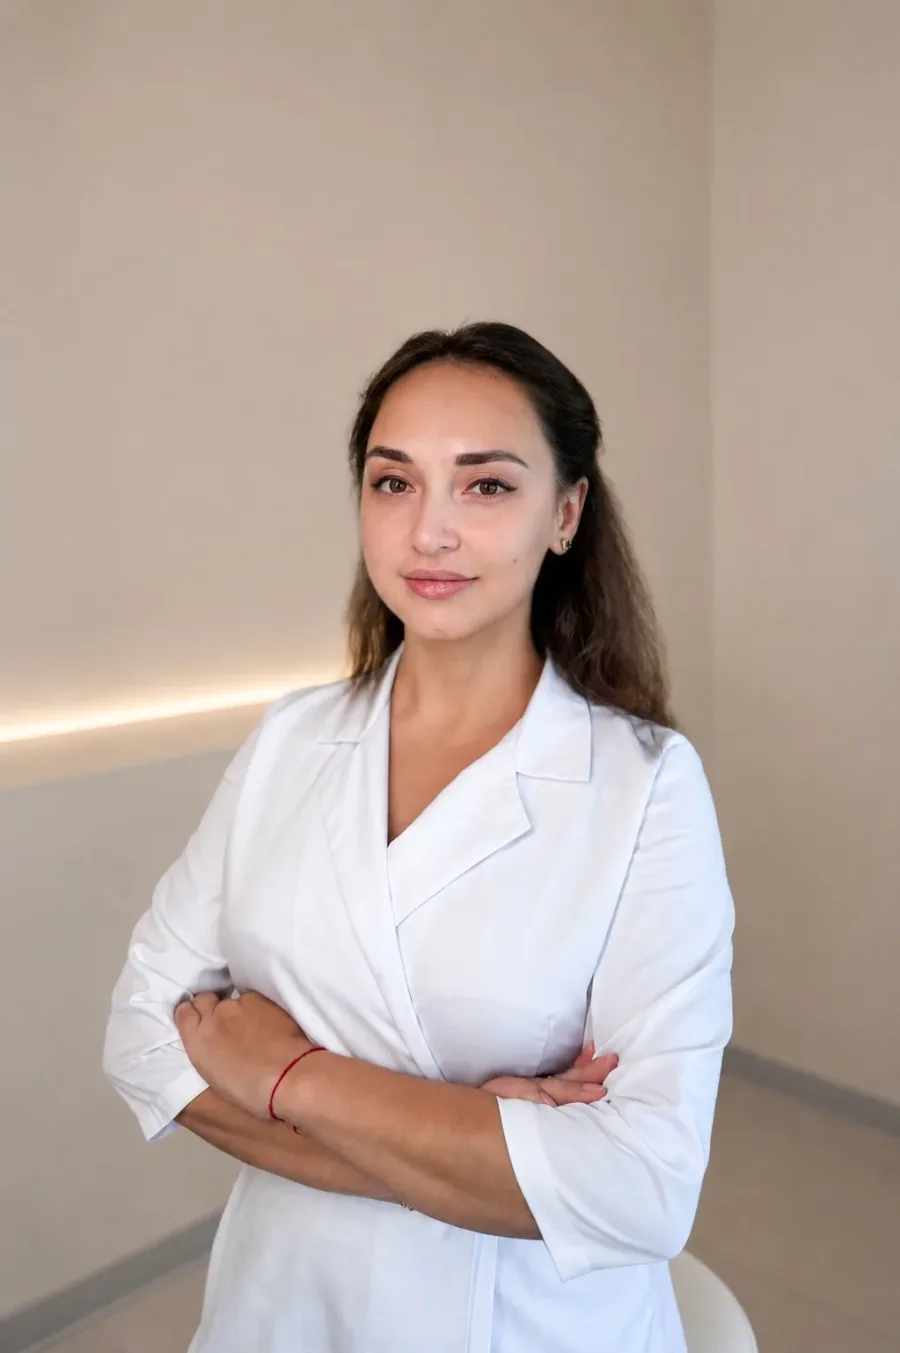
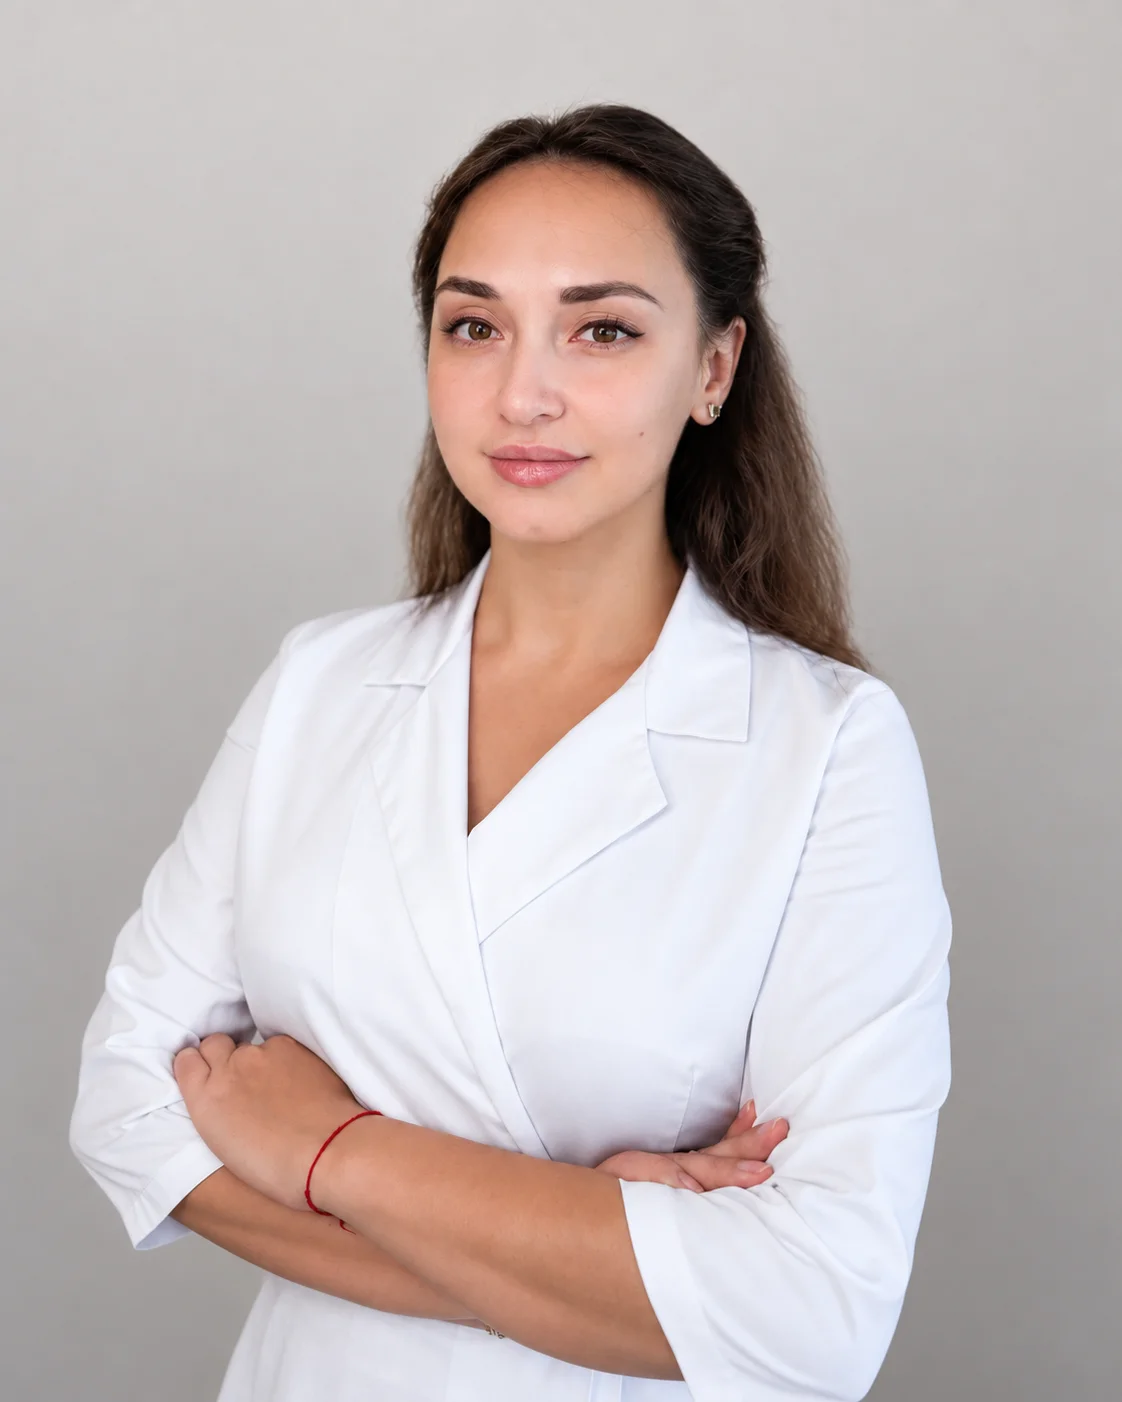
Load one copy of each homepage clip, and swap Ekaterina's photo
The homepage hero and the bento cell each exist twice in the markup, a
desktop copy and a mobile one pointing at the same file. display:none
does not stop a media fetch, so hero-clip.mp4 came down twice — 15 MB
for a 7 MB video. Both pairs now carry data-src and load through
video-loading.js, which only touches the copy that is actually
rendered. Playback is unchanged: a new data-autoplay="always" opts
these four out of the mobile poster-and-tap rule, so the homepage looks
and behaves exactly as before, minus the wasted download.

Ekaterina Evgenevna's portrait replaced with the new studio shot
(1122x1402, 46 KB). Its ten references gained ?v=2 so caches let go of
the old file.

Also: the cookie banner's "Подробнее" pointed at the personal data
policy. Now that the site carries a cookie policy of its own, it points
there.

Homepage on a phone: 15.2 MB to 8.5 MB. Each clip is requested once, on
both viewports.

diff --git a/index.html b/index.html
@@ -188,9 +188,7 @@
       <p class="mh-hero__sub">Выбор тех, кто привык к безупречному сервису и медицинской точности.</p>
     </div>
     <div class="mh-hero__photo">
-      <video autoplay muted loop playsinline preload="auto" poster="assets/photos/hero-image174.webp">
-        <source src="assets/video/hero-clip.mp4" type="video/mp4"/>
-      </video>
+      <video muted loop playsinline poster="assets/photos/hero-image174.webp" data-src="assets/video/hero-clip.mp4" preload="none" data-autoplay="always"></video>
       <div class="mh-hero__promo">
         <div class="mh-hero__promo-head">
           <p class="mh-hero__promo-label">Скидка новым гостям!</p>
@@ -344,7 +342,7 @@
         <div class="mh-why-card__head"><p class="mh-why-card__title">Лучшее оборудование с РУ</p><p class="mh-why-card__num">03</p></div>
         <p class="mh-why-card__text">Клиника оснащена только сертифицированными аппаратами с регистрационными удостоверениями. Мы работаем на оборудовании ведущих мировых производителей.</p>
       </div>
-      <div class="mh-why-photo"><video class="mh-why-photo__video" autoplay muted loop playsinline preload="auto" poster="assets/video/bento-cell-poster.webp" aria-hidden="true"><source src="assets/video/bento-cell-clip.mp4" type="video/mp4"/></video></div>
+      <div class="mh-why-photo"><video class="mh-why-photo__video" muted loop playsinline poster="assets/video/bento-cell-poster.webp" aria-hidden="true" data-src="assets/video/bento-cell-clip.mp4" preload="none" data-autoplay="always"></video></div>
       <div class="mh-why-card">
         <div class="mh-why-card__head"><p class="mh-why-card__title">Сертифицированные препараты</p><p class="mh-why-card__num">04</p></div>
         <p class="mh-why-card__text">Все используемые препараты имеют официальную регистрацию и сертификаты качества. Мы гарантируем подлинность каждого средства.</p>
@@ -398,7 +396,7 @@
           <p class="mh-spec-card__role">Косметолог-эстетист, нутрициолог</p>
         </a>
         <a href="specialists/ekaterina-evgenevna.html" class="mh-spec-card">
-          <img src="assets/photos/spec-ekaterina.webp" alt="Колесникова Екатерина Евгеньевна" loading="lazy"/>
+          <img src="assets/photos/spec-ekaterina.webp?v=2" alt="Колесникова Екатерина Евгеньевна" loading="lazy"/>
           <p class="mh-spec-card__name">Колесникова Екатерина Евгеньевна</p>
           <p class="mh-spec-card__role">Косметолог-эстетист</p>
         </a>
@@ -591,9 +589,7 @@
       </div>
     </div>
     <div class="hero__photo">
-      <video class="hero__video" autoplay muted loop playsinline preload="auto" poster="assets/photos/hero-image174.webp">
-        <source src="assets/video/hero-clip.mp4" type="video/mp4"/>
-      </video>
+      <video class="hero__video" muted loop playsinline poster="assets/photos/hero-image174.webp" data-src="assets/video/hero-clip.mp4" preload="none" data-autoplay="always"></video>
       <a href="#booking" class="hero__promo">
         <div class="hero__promo-top">
           <p class="hero__promo-label">Скидка новым гостям!</p>
@@ -893,9 +889,7 @@
       </div>
       <div class="adv-row adv-row--2">
         <div class="adv-cell adv-cell--empty adv-cell--video">
-          <video class="adv-cell__video" autoplay muted loop playsinline preload="auto" poster="assets/video/bento-cell-poster.webp" aria-hidden="true">
-            <source src="assets/video/bento-cell-clip.mp4" type="video/mp4"/>
-          </video>
+          <video class="adv-cell__video" muted loop playsinline poster="assets/video/bento-cell-poster.webp" aria-hidden="true" data-src="assets/video/bento-cell-clip.mp4" preload="none" data-autoplay="always"></video>
         </div>
         <div class="adv-cell adv-cell--text adv-cell--02">
           <div class="adv-cell__head">
@@ -990,7 +984,7 @@
       <span class="spec-card__view" aria-label="Профиль"><svg viewBox="0 0 24 24" fill="none"><path d="M7 17L17 7M17 7H9M17 7V15" stroke="currentColor" stroke-width="1.8" stroke-linecap="round" stroke-linejoin="round"/></svg></span>
     </a>
     <a href="specialists/ekaterina-evgenevna.html" class="spec-card">
-      <div class="spec-card__photo"><img src="assets/photos/spec-ekaterina.webp" alt="Колесникова Екатерина Евгеньевна" loading="lazy"/></div>
+      <div class="spec-card__photo"><img src="assets/photos/spec-ekaterina.webp?v=2" alt="Колесникова Екатерина Евгеньевна" loading="lazy"/></div>
       <p class="spec-card__name">Колесникова Екатерина Евгеньевна</p>
       <p class="spec-card__role">Косметолог-эстетист</p>
       <span class="spec-card__view" aria-label="Профиль"><svg viewBox="0 0 24 24" fill="none"><path d="M7 17L17 7M17 7H9M17 7V15" stroke="currentColor" stroke-width="1.8" stroke-linecap="round" stroke-linejoin="round"/></svg></span>
@@ -1662,7 +1656,8 @@
   if (connectTrigger && connectPanel) hoverIntent(connectTrigger, connectPanel, 300);
 })();
 </script>
-<script src="docs-popup.js?v=202609021900" defer></script><script src="animations.js?v=202609120400" defer></script>
+<script src="docs-popup.js?v=202609021900" defer></script><script src="js/video-loading.js?v=202609231800" defer></script>
+<script src="animations.js?v=202609120400" defer></script>
 <script src="mobile-nav.js?v=202608311610" defer></script>
 
 <!-- ═══ GIFT CERT POPUP ════════════════════════════════════════════ -->
@@ -1698,7 +1693,7 @@
 <div class="cookie-banner" id="cookie-banner" role="dialog" aria-label="Использование cookies" style="display:none">
   <div class="cookie-banner__text">
     <p class="cookie-banner__title">Мы используем cookie</p>
-    <p class="cookie-banner__desc">Для корректной работы сайта и анализа трафика. <a href="docs/processing.pdf" target="_blank" rel="noopener">Подробнее</a></p>
+    <p class="cookie-banner__desc">Для корректной работы сайта и анализа трафика. <a href="docs/cookies.pdf" target="_blank" rel="noopener">Подробнее</a></p>
   </div>
   <div class="cookie-banner__actions">
     <button class="pill-btn cookie-accept" id="cookie-accept">Принять</button>

diff --git a/js/video-loading.js b/js/video-loading.js
@@ -24,7 +24,11 @@
   // На мобильных ролик не запускается сам никогда: даже на быстром 4G это
   // 3–12 МБ ради фона, который человек не просил. Постер виден сразу,
   // видео подгружается по тапу. На десктопе поведение прежнее.
-  function mayAutoplay() {
+  //
+  // data-autoplay="always" — исключение для роликов главной: там нужно было
+  // только убрать скрытый дубль, а само поведение оставить как есть.
+  function mayAutoplay(video) {
+    if (video && video.dataset && video.dataset.autoplay === 'always') return true;
     if (isMobile()) return false;
     if (saveData || slow) return false;
     return !window.matchMedia('(prefers-reduced-motion: reduce)').matches;
@@ -56,14 +60,14 @@
         entries.forEach(function (e) {
           if (!e.isIntersecting) return;
           io.unobserve(e.target);
-          if (isRendered(e.target) && mayAutoplay()) start(e.target);
+          if (isRendered(e.target) && mayAutoplay(e.target)) start(e.target);
         });
       }, { rootMargin: '200px 0px' })
     : null;
 
   function init() {
-    var autoplay = mayAutoplay();
     Array.prototype.forEach.call(document.querySelectorAll('video[data-src]'), function (v) {
+      var autoplay = mayAutoplay(v);
       // Пока ролик не играет, на постере должна стоять кнопка воспроизведения:
       // её показывает .is-paused на контейнере (service-procedure.css).
       var media = v.parentElement;

diff --git a/specialists/index.html b/specialists/index.html
@@ -300,7 +300,7 @@
       <p class="spec-card__role">Косметолог-эстетист, нутрициолог</p>
     </a>
     <a href="ekaterina-evgenevna.html" class="spec-card" data-rr="up" style="--rr-del:0.15s">
-      <img src="../assets/photos/spec-ekaterina.webp" alt="Колесникова Екатерина Евгеньевна" loading="lazy"/>
+      <img src="../assets/photos/spec-ekaterina.webp?v=2" alt="Колесникова Екатерина Евгеньевна" loading="lazy"/>
       <p class="spec-card__name">Колесникова Екатерина Евгеньевна</p>
       <p class="spec-card__role">Косметолог-эстетист</p>
     </a>
@@ -365,7 +365,7 @@
     <p class="mh-spec-card__role">Косметолог-эстетист, нутрициолог</p>
   </a>
   <a href="ekaterina-evgenevna.html" class="mh-spec-card" data-rr="up" style="--rr-del:0.24s">
-    <img src="../assets/photos/spec-ekaterina.webp" alt="Колесникова Екатерина Евгеньевна" loading="lazy"/>
+    <img src="../assets/photos/spec-ekaterina.webp?v=2" alt="Колесникова Екатерина Евгеньевна" loading="lazy"/>
     <p class="mh-spec-card__name">Колесникова Екатерина Евгеньевна</p>
     <p class="mh-spec-card__role">Косметолог-эстетист</p>
   </a>

diff --git a/specialists/ekaterina-evgenevna.html b/specialists/ekaterina-evgenevna.html
@@ -36,7 +36,7 @@
       "name": "Колесникова Екатерина Евгеньевна",
       "url": "https://rare.a-4-to.ru/specialists/ekaterina-evgenevna.html",
       "jobTitle": "косметолог-эстетист",
-      "image": "https://rare.a-4-to.ru/assets/photos/spec-ekaterina.webp",
+      "image": "https://rare.a-4-to.ru/assets/photos/spec-ekaterina.webp?v=2",
       "description": "Колесникова Екатерина Евгеньевна — косметолог-эстетист клиники RA|RÉ в Анапе. 17+ лет опыта, 3 сертификата. LPG-массаж, RSL-скульптурирование.",
       "medicalSpecialty": "Dermatology",
       "worksFor": {
@@ -211,7 +211,7 @@
       </a>
     </div>
     <div class="spec-hero__photo" data-rr="img">
-      <img src="../assets/photos/spec-ekaterina.webp" alt="Колесникова Екатерина Евгеньевна" loading="eager"/>
+      <img src="../assets/photos/spec-ekaterina.webp?v=2" alt="Колесникова Екатерина Евгеньевна" loading="eager"/>
     </div>
   </section>
 

diff --git a/specialists/ksenia-aleksandrovna.html b/specialists/ksenia-aleksandrovna.html
@@ -430,7 +430,7 @@
     <div class="spec-sec-head"><h2 data-rr="up">Другие специалисты</h2></div>
     <div class="spec-others__grid" id="spec-others-cards">
       <a href="ekaterina-evgenevna.html" class="spec-other-card" data-rr="up">
-        <img src="../assets/photos/spec-ekaterina.webp" alt="Колесникова Екатерина Евгеньевна" loading="lazy"/>
+        <img src="../assets/photos/spec-ekaterina.webp?v=2" alt="Колесникова Екатерина Евгеньевна" loading="lazy"/>
         <p class="spec-other-card__name">Колесникова Екатерина Евгеньевна</p>
         <p class="spec-other-card__role">Косметолог-эстетист</p>
       </a>

diff --git a/specialists/alisa-alekseevna.html b/specialists/alisa-alekseevna.html
@@ -433,7 +433,7 @@
         <p class="spec-other-card__role">Косметолог-эстетист, нутрициолог</p>
       </a>
       <a href="ekaterina-evgenevna.html" class="spec-other-card" data-rr="up" style="--rr-del:0.05s">
-        <img src="../assets/photos/spec-ekaterina.webp" alt="Колесникова Екатерина Евгеньевна" loading="lazy"/>
+        <img src="../assets/photos/spec-ekaterina.webp?v=2" alt="Колесникова Екатерина Евгеньевна" loading="lazy"/>
         <p class="spec-other-card__name">Колесникова Екатерина Евгеньевна</p>
         <p class="spec-other-card__role">Косметолог-эстетист</p>
       </a>

diff --git a/specialists/mariya-viktorovna.html b/specialists/mariya-viktorovna.html
@@ -438,7 +438,7 @@
         <p class="spec-other-card__role">Косметолог-эстетист, нутрициолог</p>
       </a>
       <a href="ekaterina-evgenevna.html" class="spec-other-card" data-rr="up" style="--rr-del:0.10s">
-        <img src="../assets/photos/spec-ekaterina.webp" alt="Колесникова Екатерина Евгеньевна" loading="lazy"/>
+        <img src="../assets/photos/spec-ekaterina.webp?v=2" alt="Колесникова Екатерина Евгеньевна" loading="lazy"/>
         <p class="spec-other-card__name">Колесникова Екатерина Евгеньевна</p>
         <p class="spec-other-card__role">Косметолог-эстетист</p>
       </a>

diff --git a/specialists/natalya-vladimirovna.html b/specialists/natalya-vladimirovna.html
@@ -392,7 +392,7 @@
         <p class="spec-other-card__role">Косметолог-эстетист, нутрициолог</p>
       </a>
       <a href="ekaterina-evgenevna.html" class="spec-other-card" data-rr="up" style="--rr-del:0.15s">
-        <img src="../assets/photos/spec-ekaterina.webp" alt="Колесникова Екатерина Евгеньевна" loading="lazy"/>
+        <img src="../assets/photos/spec-ekaterina.webp?v=2" alt="Колесникова Екатерина Евгеньевна" loading="lazy"/>
         <p class="spec-other-card__name">Колесникова Екатерина Евгеньевна</p>
         <p class="spec-other-card__role">Косметолог-эстетист</p>
       </a>

diff --git a/about.html b/about.html
@@ -824,7 +824,7 @@ function openBookingPopup() {
 })();
 </script>
 <script src="docs-popup.js?v=202609021900" defer></script>
-<script src="js/video-loading.js?v=202609231400" defer></script>
+<script src="js/video-loading.js?v=202609231800" defer></script>
 <script src="animations.js?v=202609120400" defer></script>
 <script src="mobile-nav.js?v=202608311610" defer></script>
 <script src="assets/vendor/bvi/js/bvi.min.js?v=202608251400" defer></script><script src="./accessibility.js?v=202608311610" defer></script>

diff --git a/articles/article-office-syndrome.html b/articles/article-office-syndrome.html
@@ -435,7 +435,7 @@
   </div>
 </footer>
 <script src="../docs-popup.js?v=202609021900" defer></script>
-<script src="../js/video-loading.js?v=202609231400" defer></script>
+<script src="../js/video-loading.js?v=202609231800" defer></script>
 <script src="../animations.js?v=202609120400" defer></script>
 <script src="../mobile-nav.js?v=202608311610" defer></script>
 <script src="../assets/vendor/bvi/js/bvi.min.js?v=202608251400" defer></script><script src="../accessibility.js?v=202608311610" defer></script>

diff --git a/services/procedures/laser-epilation.html b/services/procedures/laser-epilation.html
@@ -1177,7 +1177,7 @@
 </div>
 
 <script src="../../js/filmstrip.js?v=202608180930"></script>
-<script src="../../js/video-loading.js?v=202609231400" defer></script>
+<script src="../../js/video-loading.js?v=202609231800" defer></script>
 <script src="../../js/service-procedure.js?v=202609231400"></script>
 <script>
 (function () {

diff --git a/services/procedures/photorejuvenation.html b/services/procedures/photorejuvenation.html
@@ -1014,7 +1014,7 @@
 </div>
 
 <script src="../../js/filmstrip.js?v=202608180930"></script>
-<script src="../../js/video-loading.js?v=202609231400" defer></script>
+<script src="../../js/video-loading.js?v=202609231800" defer></script>
 <script src="../../js/service-procedure.js?v=202609231400"></script>
 <script>
 (function () {
